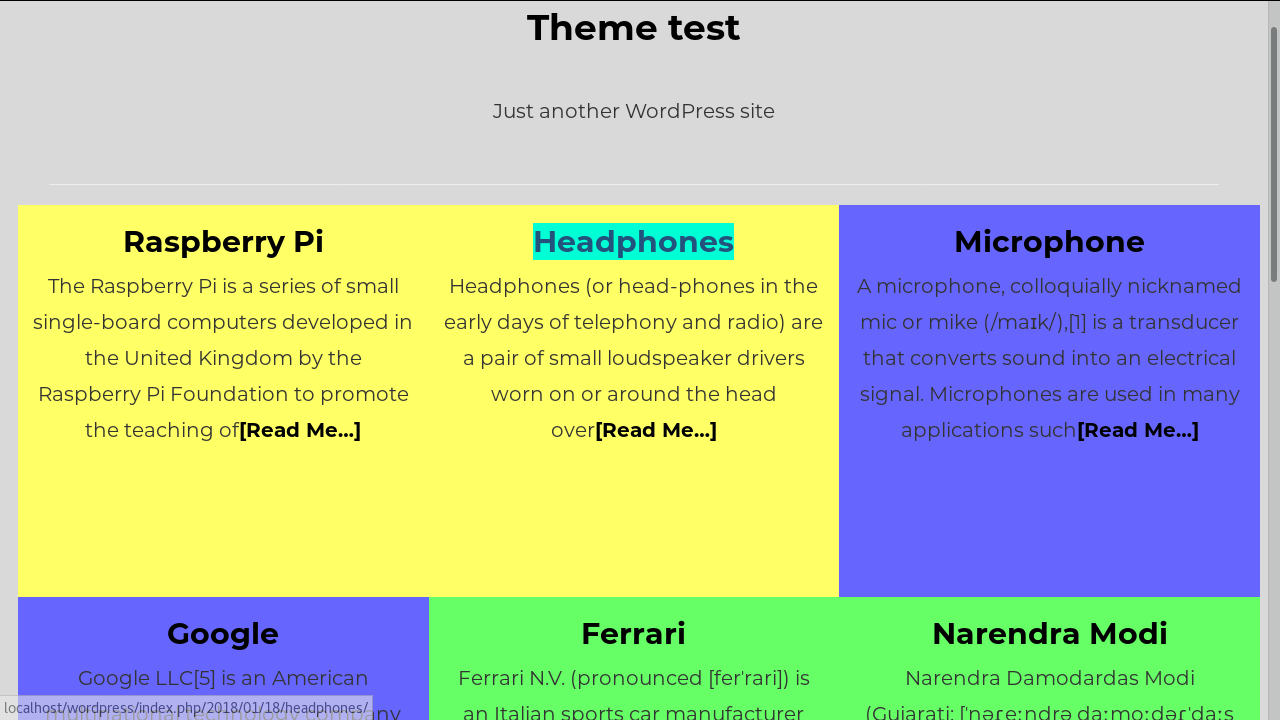
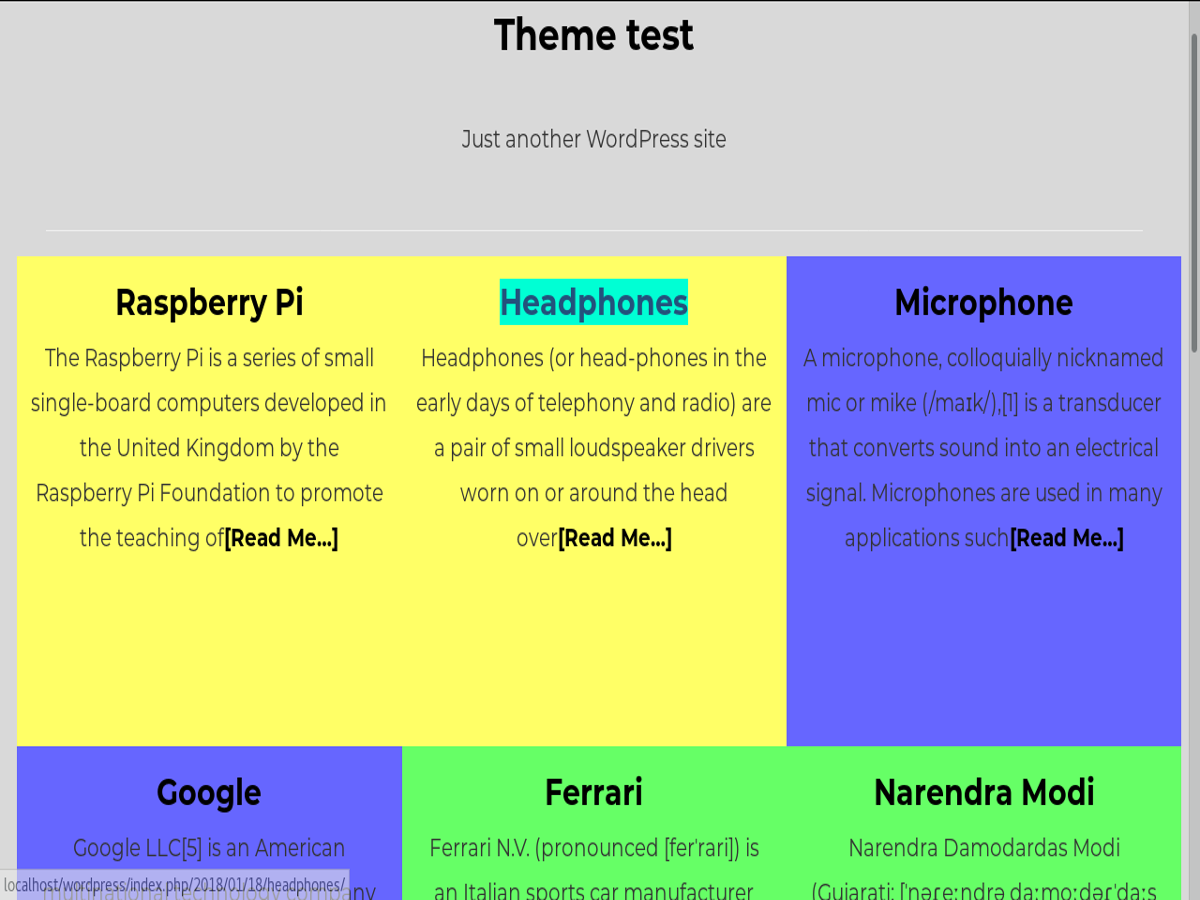
Decor left

diff --git a/style.css b/style.css
@@ -18,12 +18,6 @@ Text Domain: cubes
 	background-color: #00ffd4;
 	text-decoration: none;
  }
- body {
-	font: 20px Montserrat, sans-serif;
-	line-height: 1.8;
-	background-color: #d9d9d9;
-	margin: 0.25%;
- }
  .alignnone {
     margin: 5px 20px 20px 0;
 }
@@ -63,7 +57,58 @@ a img.aligncenter {
     margin-left: auto;
     margin-right: auto;
 }
+ body {
+	font: 20px Montserrat, sans-serif;
+	line-height: 1.8;
+	background-color: #d9d9d9;
+	margin: 0.25%;
+ }
+ .bypostauthor{
+}
+[class*="col-"] {
+    float: none;
+    display: table-cell;
+    vertical-align: top;
+}
+.gallery-caption{
+} 
+.row {
+    display: table;
+}
 
+/* Text meant only for screen readers. */
+.screen-reader-text {
+	border: 0;
+	clip: rect(1px, 1px, 1px, 1px);
+	clip-path: inset(50%);
+	height: 1px;
+	margin: -1px;
+	overflow: hidden;
+	padding: 0;
+	position: absolute !important;
+	width: 1px;
+	word-wrap: normal !important; /* Many screen reader and browser combinations announce broken words as they would appear visually. */
+}
+
+.screen-reader-text:focus {
+	background-color: #eee;
+	clip: auto !important;
+	clip-path: none;
+	color: #444;
+	display: block;
+	font-size: 1em;
+	height: auto;
+	left: 5px;
+	line-height: normal;
+	padding: 15px 23px 14px;
+	text-decoration: none;
+	top: 5px;
+	width: auto;
+	z-index: 100000;
+	/* Above WP toolbar. */
+}
+.sticky {
+}
 .wp-caption {
     background: #fff;
     border: 1px solid #f0f0f0;
@@ -100,49 +145,3 @@ a img.aligncenter {
     padding: 0 4px 5px;
 }
 
-/* Text meant only for screen readers. */
-.screen-reader-text {
-	border: 0;
-	clip: rect(1px, 1px, 1px, 1px);
-	clip-path: inset(50%);
-	height: 1px;
-	margin: -1px;
-	overflow: hidden;
-	padding: 0;
-	position: absolute !important;
-	width: 1px;
-	word-wrap: normal !important; /* Many screen reader and browser combinations announce broken words as they would appear visually. */
-}
-
-.screen-reader-text:focus {
-	background-color: #eee;
-	clip: auto !important;
-	clip-path: none;
-	color: #444;
-	display: block;
-	font-size: 1em;
-	height: auto;
-	left: 5px;
-	line-height: normal;
-	padding: 15px 23px 14px;
-	text-decoration: none;
-	top: 5px;
-	width: auto;
-	z-index: 100000;
-	/* Above WP toolbar. */
-}
-.sticky {
-}
-.bypostauthor{
-}
-.gallery-caption{
-} 
-.row {
-    display: table;
-}
-
-[class*="col-"] {
-    float: none;
-    display: table-cell;
-    vertical-align: top;
-}

diff --git a/single.php b/single.php
@@ -1,9 +1,9 @@
 <?php get_header(); ?>
 	<div class="container-fluid">
 		<!--Site body -->	
-		<?php if (have_posts()) : $colors=array("#ffff66","#ff6666","#6666ff","#66ff66"); while (have_posts()) : the_post(); $color_index=array_rand($colors);?>
+		<?php if (have_posts()) : $colors=array('#ffff66','#ff6666','#6666ff','#66ff66'); while (have_posts()) : the_post(); $color_index=array_rand($colors);?>
 			<div class='row row-grid'>
-				<div class='col-*-* col align-self-center' style='background-color:<?php echo $colors[$color_index]; ?>;'>
+				<div class='col-*-* col align-self-center' style="background-color:<?php echo $colors[$color_index]; ?>;">
 					<h2><a href='<?php the_permalink()?>'><?php the_title(); ?></a></h2>
 					<?php the_content(); ?>
 					<div class="text-right">
@@ -13,7 +13,6 @@
 						<?php echo get_the_tag_list( '#', ', #','' ); ?>
 					</div>
 					 <?php wp_list_comments( $args ); ?>
-					<?php paginate_comments_links(); ?>
 					<?php comments_template( '/templates/comments.php', true );     ?>
 				</div>
 			</div>

diff --git a/functions.php b/functions.php
@@ -31,7 +31,7 @@
 	);
 	add_theme_support( 'custom-header', $args );
 	add_theme_support( 'post-thumbnails' );
-	add_theme_support( "custom-background", $args );
+	add_theme_support( 'custom-background', $args );
 	function newborn_enqueue_comments_reply() {
 		if( get_option( 'thread_comments' ) ) {
 			wp_enqueue_script( 'comment-reply' );
@@ -39,4 +39,10 @@
 	}
 	add_action( 'comment_form_before', 'newborn_enqueue_comments_reply' );
 	if ( ! isset( $content_width ) ) $content_width = 900;
+	the_post_thumbnail( 'thumbnail' );
+	function wpdocs_theme_add_editor_styles() {
+    $font_url = str_replace( ',', '%2C', '//fonts.googleapis.com/css?family=Lato:300,400,700' );
+    add_editor_style( $font_url );
+}
+add_action( 'after_setup_theme', 'wpdocs_theme_add_editor_styles' );
 ?>

diff --git a/author.php b/author.php
@@ -4,7 +4,7 @@
 <!-- This sets the $curauth variable -->
     <?php
 		$curauth = (isset($_GET['author_name'])) ? get_user_by('slug', $author_name) : get_userdata(intval($author));
-		$colors=array("#ffff66","#ff6666","#6666ff","#66ff66");
+		$colors=array('#ffff66','#ff6666','#6666ff','#66ff66');
 		$color_index=array_rand($colors);
     ?>
 	<div class='row row-grid'>
@@ -19,7 +19,7 @@
 			<dd><?php echo $curauth->user_description; ?></dd>
 		</dl>
 		<?php
-			$colors=array("#ffff66","#ff6666","#6666ff","#66ff66");
+			$colors=array('#ffff66','#ff6666','#6666ff','#66ff66');
 			$color_index=array_rand($colors);
 		?>
 		</div>

diff --git a/templates/comments.php b/templates/comments.php
@@ -1,3 +1,4 @@
+<h3>Comments on the post:</h3>
 <?php
 //Get only the approved comments 
 $args = array(
@@ -18,3 +19,4 @@ if ( $comments ) {
 }
 ?>
 <?php comment_form(array('comment_notes_after' => '')); ?>
+<?php paginate_comments_links(); ?>

diff --git a/header.php b/header.php
@@ -17,7 +17,7 @@
 				<p><br />
 					<?php bloginfo('description'); ?><br />
 				</p><br />
-			</div
-			<?php wp_link_pages(); ?>>
+			</div>
+			<?php wp_link_pages(); ?>
 		</header>
 		
